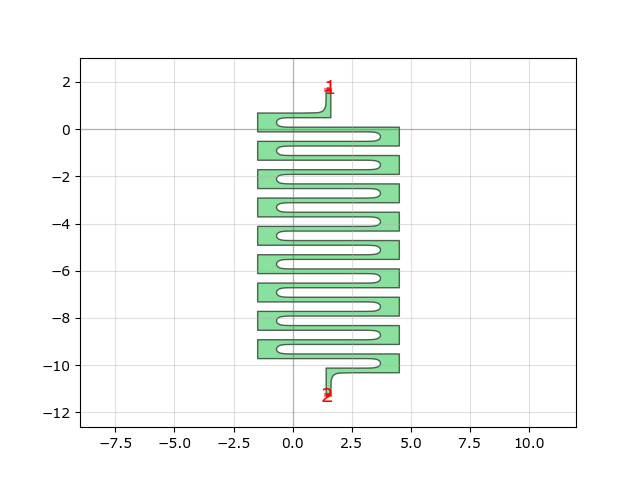
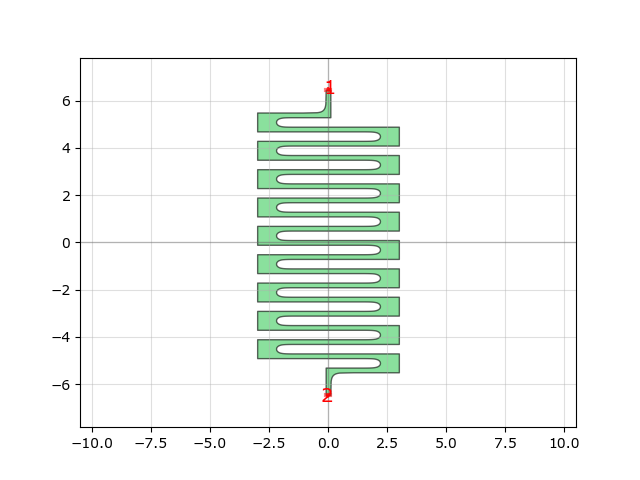
calculate_dev_max_size

diff --git a/src/qnngds/cells.py b/src/qnngds/cells.py
@@ -15,6 +15,7 @@ from phidl import set_quickplot_options
 
 # basics
 
+
 def alignment(
     die_w: Union[int, float] = dflt.die_w,
     layers_to_align: List[int] = [dflt.layers["die"], dflt.layers["pad"]],
@@ -92,13 +93,17 @@ def vdp(
     if text is None:
         text = str(layers_to_probe)
     if layers_to_outline is None:
-        layers_to_outline = [die_layer] # default layer to outline if None is given
-    
+        layers_to_outline = [die_layer]  # default layer to outline if None is given
+
     DIE_VANDP = Device(f"DIE VAN DER PAUW {text} ")
 
-    device_max_w = die_w - 2 * (pad_size[1] + 2 * outline)  # width of max device size for this cell
-    contact_w = device_max_w/10            # choosing a contact width 10 times smaller
-    device_w = device_max_w - 2*contact_w  # choosing a smaller device to have space for routing from pad to contact
+    device_max_w = die_w - 2 * (
+        pad_size[1] + 2 * outline
+    )  # width of max device size for this cell
+    contact_w = device_max_w / 10  # choosing a contact width 10 times smaller
+    device_w = (
+        device_max_w - 2 * contact_w
+    )  # choosing a smaller device to have space for routing from pad to contact
 
     # Creates the DIE, it contains only the cell text and bordure
 
@@ -141,7 +146,7 @@ def vdp(
     PADS.remove_layers([pad_layer], invert_selection=True)
     VDP << PADS
 
-    ## routes from pads to probing area 
+    ## routes from pads to probing area
     ROUTES = utility.route_to_dev(PADS.get_ports(), AREA.ports)
     VDP << ROUTES
 
@@ -320,11 +325,15 @@ def nanowires(
     source.
 
     Parameters:
-        die_w (int or float): Width of a unit die/cell in the design (the output device will be an integer number of unit cells).
-        pad_size (tuple of int or float): Dimensions of the die's pads (width, height).
-        channels_sources_w (list of tuple of float): The list of (channel_w, source_w) of the nanowires to create.
-        overlap_w (int or float): Extra length of the routes above the die's ports to assure alignment with the device
-                                   (useful for ebeam lithography).
+        die_w (int or float): Width of a unit die/cell in the design (the output
+            device will be an integer number of unit cells).
+        pad_size (tuple of int or float): Dimensions of the die's pads (width,
+            height).
+        channels_sources_w (list of tuple of float): The list of (channel_w,
+            source_w) of the nanowires to create.
+        overlap_w (int or float): Extra length of the routes above the die's
+            ports to assure alignment with the device (useful for ebeam
+            lithography).
         outline_die (int or float): The width of the pads outline.
         outline_dev (int or float): The width of the device's outline.
         device_layer (int or tuple of int): The layer where the device is placed.
@@ -392,7 +401,9 @@ def nanowires(
     ## Route the nanowires and the die
 
     # hyper tapers
-    HT, dev_ports = utility.add_hyptap_to_cell(BORDER.get_ports(), overlap_w, dev_contact_w)
+    HT, dev_ports = utility.add_hyptap_to_cell(
+        BORDER.get_ports(), overlap_w, dev_contact_w
+    )
     DEVICE.ports = dev_ports.ports
     DEVICE << HT
 
@@ -537,10 +548,13 @@ def ntron(
     DIE_NTRON.name = f"DIE NTRON {text} "
     return DIE_NTRON
 
-def snspd(die_w: Union[int, float] = dflt.die_w,
+
+def snspd(
+    die_w: Union[int, float] = dflt.die_w,
     pad_size: Tuple[float] = dflt.pad_size,
     snspd_width: float = 0.2,
     snspd_pitch: float = 0.6,
+    size: Tuple[int, int] = utility.calculate_dev_max_size(),
     # size: Tuple[int, int] = (6, 10), # to implement (go to next unit cell size if too big)
     # num_squares: Optional[int] = None, # to implement (go to next unit cell size if too big)
     overlap_w: Union[int, float] = dflt.ebeam_overlap,
@@ -551,8 +565,8 @@ def snspd(die_w: Union[int, float] = dflt.die_w,
     pad_layer: int = dflt.layers["pad"],
     text: Union[None, str] = dflt.text,
 ) -> Device:
-    """Creates a cell that contains a vertical superconducting nanowire
-    single-photon detector (SNSPD).
+    """Creates a cell that contains a vertical superconducting nanowire single-
+    photon detector (SNSPD).
 
     Parameters:
         die_w (int or float): Width of a unit die/cell in the design (the output
@@ -580,25 +594,29 @@ def snspd(die_w: Union[int, float] = dflt.die_w,
     SNSPD_DIE = Device(f"DIE SNSPD {text} ")
 
     DEVICE = Device(f"SNSPD {text} ")
-    
-    device_max_w = die_w - 2 * (pad_size[1] + 2 * outline_die)  # width of max device size for this cell
-    snspd_size = device_max_w/30
 
-    snspd = device.snspd.vertical(wire_width=snspd_width,
-                                  wire_pitch=snspd_pitch,
-                                  size = (snspd_size, snspd_size))
+    device_max_w = die_w - 2 * (
+        pad_size[1] + 2 * outline_die
+    )  # width of max device size for this cell
+    snspd_size = device_max_w / 30
+
+    snspd = device.snspd.vertical(
+        wire_width=snspd_width, wire_pitch=snspd_pitch, size=(snspd_size, snspd_size)
+    )
     # Rename the ports to compass multi
     SNSPD = Device()
     SNSPD << snspd
     SNSPD.add_port(port=snspd.ports[1], name="N1")
     SNSPD.add_port(port=snspd.ports[2], name="S1")
-    
+
     DEVICE << SNSPD
 
-    die_contact_w = SNSPD.ports["N1"].width*2 + overlap_w  # refine with min/max conditions
-    dev_contact_w = SNSPD.ports["N1"].width*50  # refine with min/max conditions
-    
-    device_max_w = device_max_w/2 # refine with min/max conditions
+    die_contact_w = (
+        SNSPD.ports["N1"].width * 2 + overlap_w
+    )  # refine with min/max conditions
+    dev_contact_w = SNSPD.ports["N1"].width * 50  # refine with min/max conditions
+
+    device_max_w = device_max_w / 2  # refine with min/max conditions
 
     ## Create the DIE
     BORDER = utility.die_cell(
@@ -617,7 +635,9 @@ def snspd(die_w: Union[int, float] = dflt.die_w,
     )
 
     # hyper tapers
-    HT, dev_ports = utility.add_hyptap_to_cell(BORDER.get_ports(), overlap_w, dev_contact_w, SNSPD.ports["N1"].width)
+    HT, dev_ports = utility.add_hyptap_to_cell(
+        BORDER.get_ports(), overlap_w, dev_contact_w, SNSPD.ports["N1"].width
+    )
     DEVICE.ports = dev_ports.ports
     DEVICE << HT
 
@@ -762,4 +782,3 @@ def snspd_ntron(
     DIE_SNSPD_NTRON.name = f"SNSPD \n{w_snspd} {w_choke} "
 
     return DIE_SNSPD_NTRON
-

diff --git a/src/qnngds/utilities.py b/src/qnngds/utilities.py
@@ -22,7 +22,7 @@ die_cell_border = 80
 
 def die_cell(
     die_size: Tuple[int, int] = (dflt.die_w, dflt.die_w),
-    device_max_size: Tuple[int, int] = (100, 100),
+    device_max_size: Tuple[int, int] = (dflt.die_w / 3, dflt.die_w / 3),
     pad_size: Tuple[int, int] = dflt.pad_size,
     contact_w: Union[int, float] = 50,
     contact_l: Union[int, float] = dflt.ebeam_overlap,
@@ -174,6 +174,20 @@ def die_cell(
     return DIE
 
 
+def calculate_dev_max_size(
+    die_size: Tuple[int, int] = (dflt.die_w, dflt.die_w),
+    pad_size: Tuple[int, int] = dflt.pad_size,
+    contact_l: Union[int, float] = dflt.ebeam_overlap,
+    isolation: Union[int, float] = dflt.die_outline,
+) -> Tuple[float, float]:
+
+    dev_max_size = [
+        2 * (die_w / 2 - 3 * isolation - pad_size[1] - 2 * contact_l)
+        for die_w in die_size
+    ]
+    return dev_max_size[0], dev_max_size[1]
+
+
 def add_hyptap_to_cell(
     die_ports: List[Port],
     overlap_w: Union[int, float] = dflt.ebeam_overlap,
@@ -217,8 +231,8 @@ def add_hyptap_to_cell(
 def route_to_dev(
     ext_ports: List[Port], dev_ports: Set[Port], layer: int = dflt.layers["device"]
 ) -> Device:
-    """Creates smooth routes from external ports to the device's ports.
-    If route_smooth is not working, routes quad.
+    """Creates smooth routes from external ports to the device's ports. If
+    route_smooth is not working, routes quad.
 
     Parameters:
         ext_ports (list of Port): The external ports, e.g., of the die or hyper tapers (use .get_ports()).
@@ -254,10 +268,7 @@ def route_to_dev(
                     length2=length2,
                 )
             except ValueError:
-                ROUTES << pr.route_quad(
-                    port,
-                    dev_port
-                )
+                ROUTES << pr.route_quad(port, dev_port)
     ROUTES.flatten(single_layer=layer)
     return ROUTES
 

diff --git a/src/qnngds/contrib.py b/src/qnngds/contrib.py
@@ -1,11 +1,16 @@
 from phidl import quickplot as qp
 from phidl import set_quickplot_options
+
 set_quickplot_options(blocking=True)
 
 import qnngds.cells as cell
 import qnngds.devices as device
 import qnngds.design as design
+import qnngds.utilities as utility
 
 
-qp(cell.snspd())
-# qp(design.Design().snspd_cell())
+# qp(cell.snspd())
+# # qp(design.Design().snspd_cell())
+# qp(utility.die_cell(isolation = 20))
+
+print(utility.calculate_dev_max_size())

diff --git a/docs/user/api.rst b/docs/user/api.rst
@@ -7,7 +7,7 @@ Cells
 
 .. automodule:: qnngds.cells
     :members:
-    :exclude-members: alignment, etch_test, nanowires, ntron, resolution_test, snspd_ntron, vdp
+    :exclude-members: alignment, etch_test, nanowires, ntron, resolution_test, snspd, snspd_ntron, vdp
     :undoc-members:
     :show-inheritance:
 
@@ -36,6 +36,11 @@ Cells
         .. image:: images/cells/resolution_test.png
             :alt: resolution_test.png
 
+    .. autofunction:: snspd
+
+        .. image:: images/cells/snspd.png
+            :alt: snspd.png
+
     .. autofunction:: snspd_ntron
 
         .. image:: images/cells/snspd_ntron.png
@@ -60,6 +65,16 @@ Circuits
 
         .. image:: images/circuits/snspd_ntron.png
             :alt: snspd_ntron.png
+
+.. _Contrib:
+Contrib
+-------
+
+.. automodule:: qnngds.contrib
+    :members:
+    :exclude-members: 
+    :undoc-members:
+    :show-inheritance:
 
 .. _Design:
 Design
